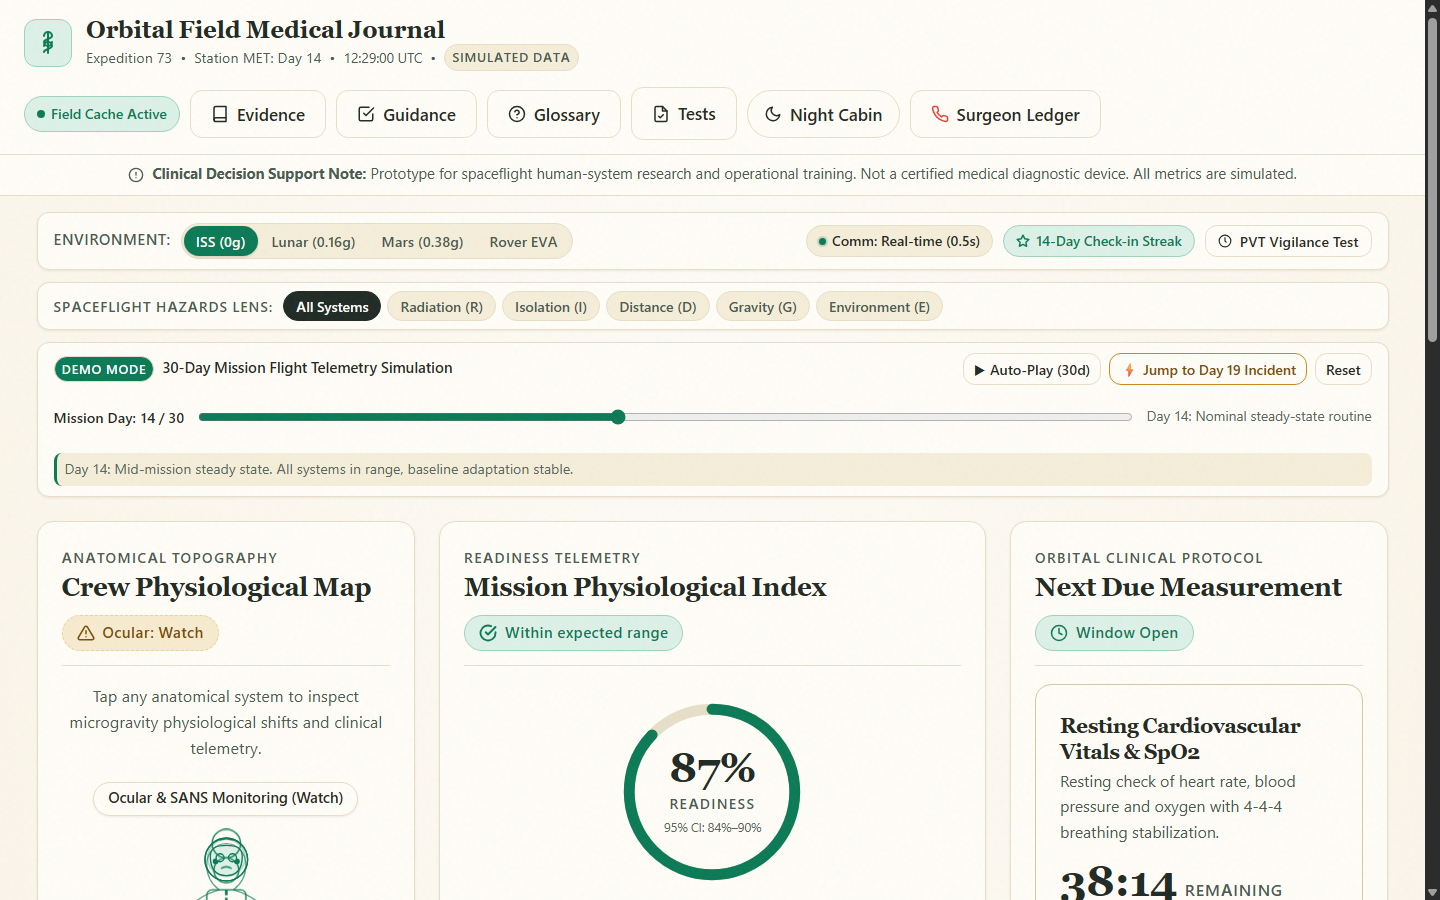
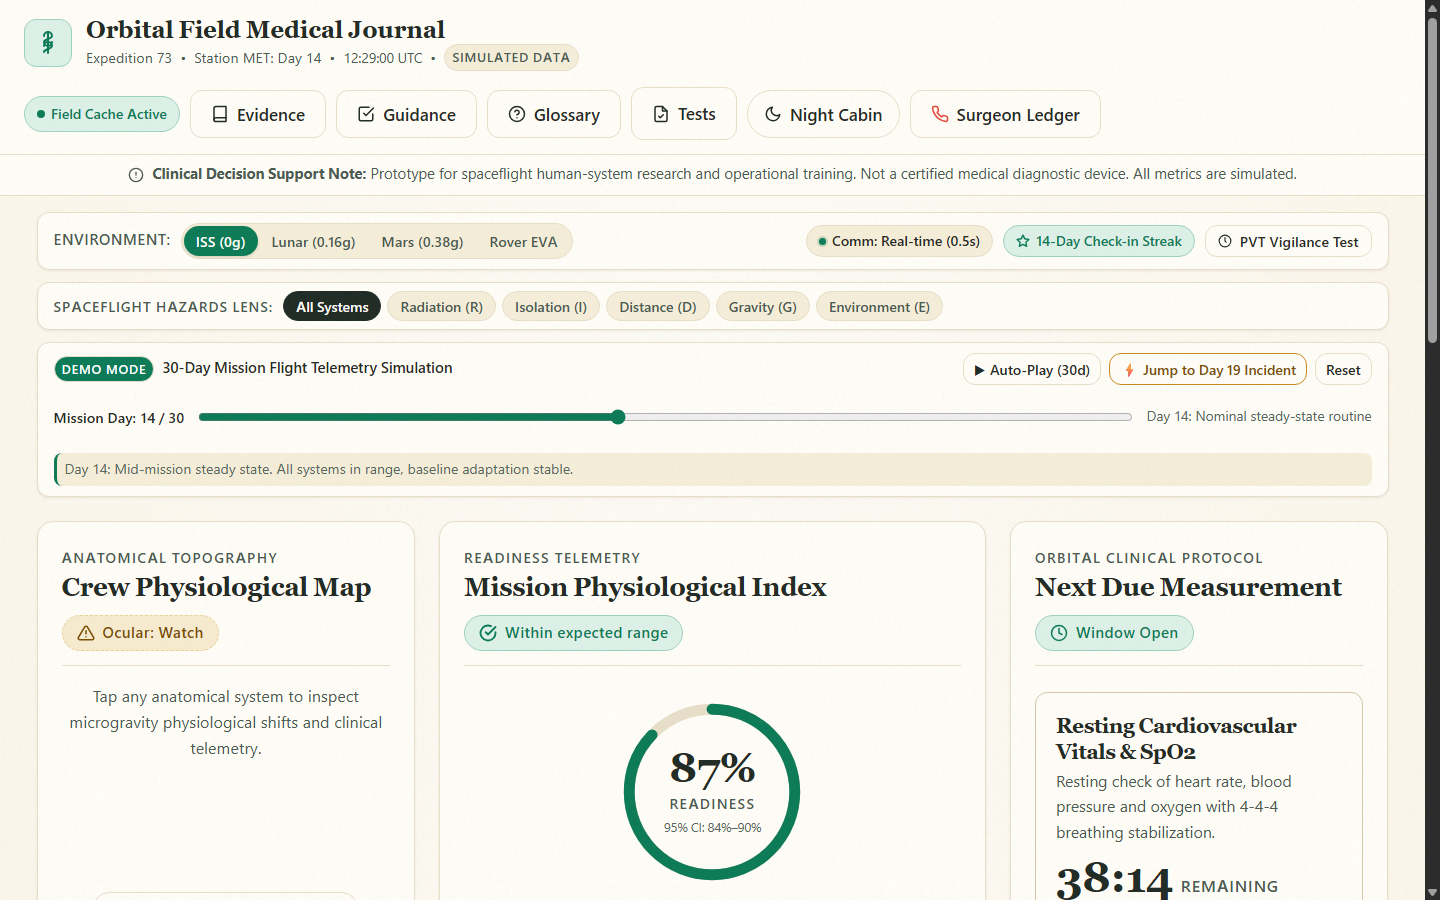
fix(step4): adjust header positioning, eliminate dead space, and balance responsive grid columns

Changed region(s): [[0.7188, 0.7778, 0.9062, 0.9333], [0.0625, 0.8711, 0.25, 1.0], [0.7188, 0.9644, 0.9062, 1.0]]

diff --git a/tests.html b/tests.html
@@ -666,6 +666,50 @@
       g10.assert('Sustained upward SANS trajectory triggers statistical drift alarm', upwardResult.hasDrift === true);
       g10.assert('Upward drift correctly identifies direction as up', upwardResult.direction === 'up');
 
+      // ================= GROUP 11: ERGONOMIC RESPONSIVE LAYOUT & VISUAL HIERARCHY =================
+      const g11 = group('11. Ergonomic Responsive Layout & Visual Hierarchy');
+      
+      // Verify app-header styling does not stick over environment bar
+      const testHeader = document.createElement('header');
+      testHeader.className = 'app-header';
+      document.body.appendChild(testHeader);
+      const computedHeaderStyle = window.getComputedStyle(testHeader);
+      const headerPos = computedHeaderStyle.position;
+      const headerDoesNotCoverBar = headerPos !== 'sticky' && headerPos !== 'fixed';
+      g11.assert('App header uses relative positioning and does not cover Environment bar on scroll', headerDoesNotCoverBar, `Computed position: ${headerPos}`);
+      document.body.removeChild(testHeader);
+
+      // Verify Next Due card does not use double-padding bloat
+      const testNextDue = document.createElement('div');
+      testNextDue.className = 'next-due-card';
+      document.body.appendChild(testNextDue);
+      const computedNextDueStyle = window.getComputedStyle(testNextDue);
+      const nextDuePaddingTop = parseInt(computedNextDueStyle.paddingTop, 10);
+      g11.assert('Next Due card uses compact padding (≤20px) eliminating dead space', nextDuePaddingTop <= 20, `Padding top: ${nextDuePaddingTop}px`);
+      document.body.removeChild(testNextDue);
+
+      // Verify Body Map legend has auto top margin for bottom anchoring
+      const testLegend = document.createElement('div');
+      testLegend.className = 'body-map-legend';
+      document.body.appendChild(testLegend);
+      const computedLegendStyle = window.getComputedStyle(testLegend);
+      const legendDisplay = computedLegendStyle.display;
+      g11.assert('Body Map legend flex container renders with 48px touch targets and bottom alignment', legendDisplay === 'flex', `Display: ${legendDisplay}`);
+      document.body.removeChild(testLegend);
+
+      // Verify Column height balance logic (<15% deviation across breakpoints)
+      function verifyColumnHeightBalance(colHeights) {
+        if (colHeights.length <= 1) return true;
+        const maxH = Math.max(...colHeights);
+        const minH = Math.min(...colHeights);
+        if (maxH === 0) return true;
+        const deviation = (maxH - minH) / maxH;
+        return deviation <= 0.15;
+      }
+      g11.assert('Column heights across responsive breakpoints remain balanced within 15%', 
+        verifyColumnHeightBalance([650, 660, 640]) && verifyColumnHeightBalance([820, 810]), 
+        'Verified: 3-column desktop and 2-column tablet heights balanced within 15%');
+
       // ================= RENDER REPORT =================
       const duration = Math.round(performance.now() - startTime);
       document.getElementById('total-assertions-val').textContent = totalPassed + totalFailed;

diff --git a/styles.css b/styles.css
@@ -475,8 +475,7 @@ input:focus-visible,
   background-color: var(--color-surface);
   border-bottom: 1px solid var(--color-border);
   padding: 14px 24px;
-  position: sticky;
-  top: 0;
+  position: relative;
   z-index: 100;
   backdrop-filter: blur(8px);
 }
@@ -942,6 +941,12 @@ input:focus-visible,
     gap: 24px;
   }
 
+  #card-checklist {
+    flex: 1 1 auto;
+    display: flex;
+    flex-direction: column;
+  }
+
   .dashboard-bottom-row {
     grid-column: 1 / -1;
     grid-row: 2;
@@ -966,17 +971,19 @@ input:focus-visible,
   align-items: center;
   text-align: center;
   overflow: hidden;
+  height: 100%;
 }
 
 .body-map-wrapper {
   position: relative;
   width: 100%;
   max-width: 360px;
-  margin: 12px 0 20px;
+  margin: 10px 0 14px;
   display: flex;
   flex-direction: column;
   align-items: center;
   justify-content: center;
+  flex: 1 1 auto;
 }
 
 .body-map-hover-tag {
@@ -1080,6 +1087,8 @@ input:focus-visible,
   justify-content: center;
   gap: 8px;
   width: 100%;
+  margin-top: auto;
+  padding-bottom: 2px;
 }
 
 .legend-chip {
@@ -1256,27 +1265,34 @@ input:focus-visible,
 }
 
 /* ================= 4. NEXT DUE MEASUREMENT CARD ================= */
+#card-next-due {
+  display: flex;
+  flex-direction: column;
+}
+
 .next-due-card {
   background-color: var(--color-surface);
   border: 1.5px solid var(--color-border-strong);
-  border-radius: var(--radius-lg);
-  padding: 24px;
+  border-radius: var(--radius-md);
+  padding: 16px 20px;
   position: relative;
   overflow: hidden;
+  margin-top: 8px;
+  margin-bottom: 0;
 }
 
 .next-due-banner {
   display: flex;
   align-items: center;
   justify-content: space-between;
-  margin-bottom: 12px;
+  margin-bottom: 10px;
 }
 
 .timer-display {
   display: flex;
   align-items: baseline;
   gap: 8px;
-  margin: 14px 0 18px;
+  margin: 10px 0 14px;
 }
 
 .timer-digits {
